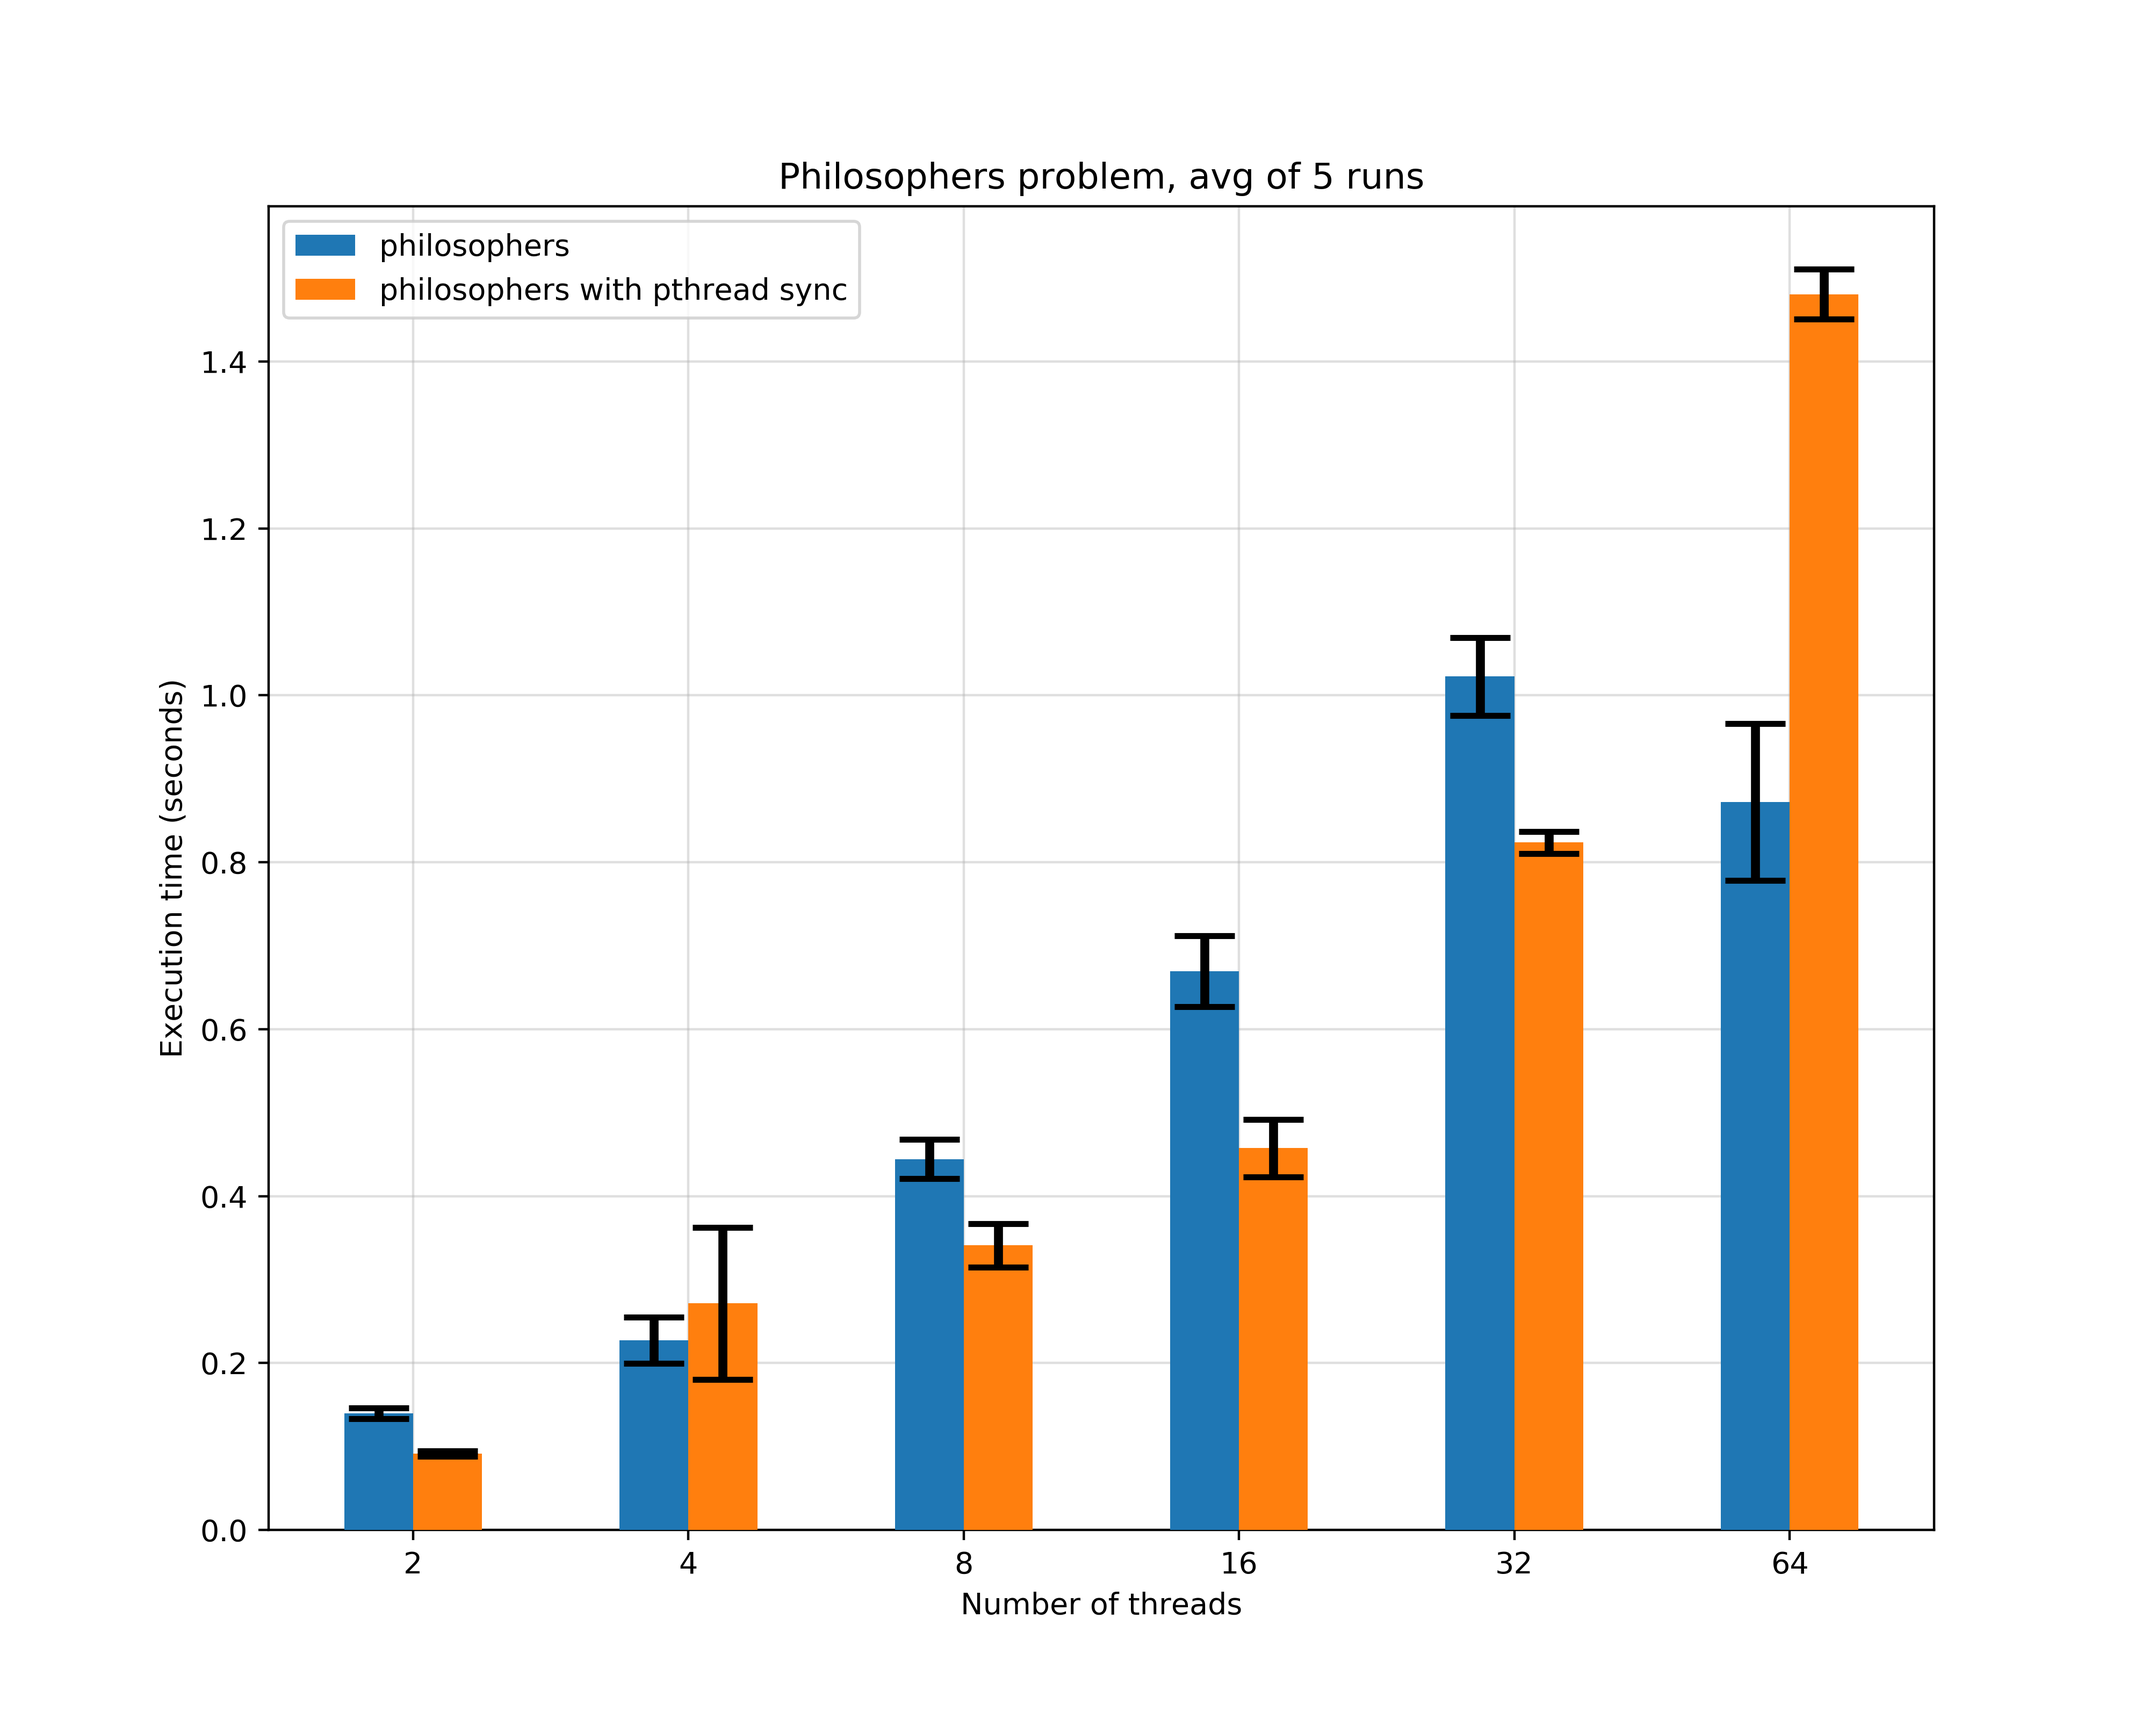
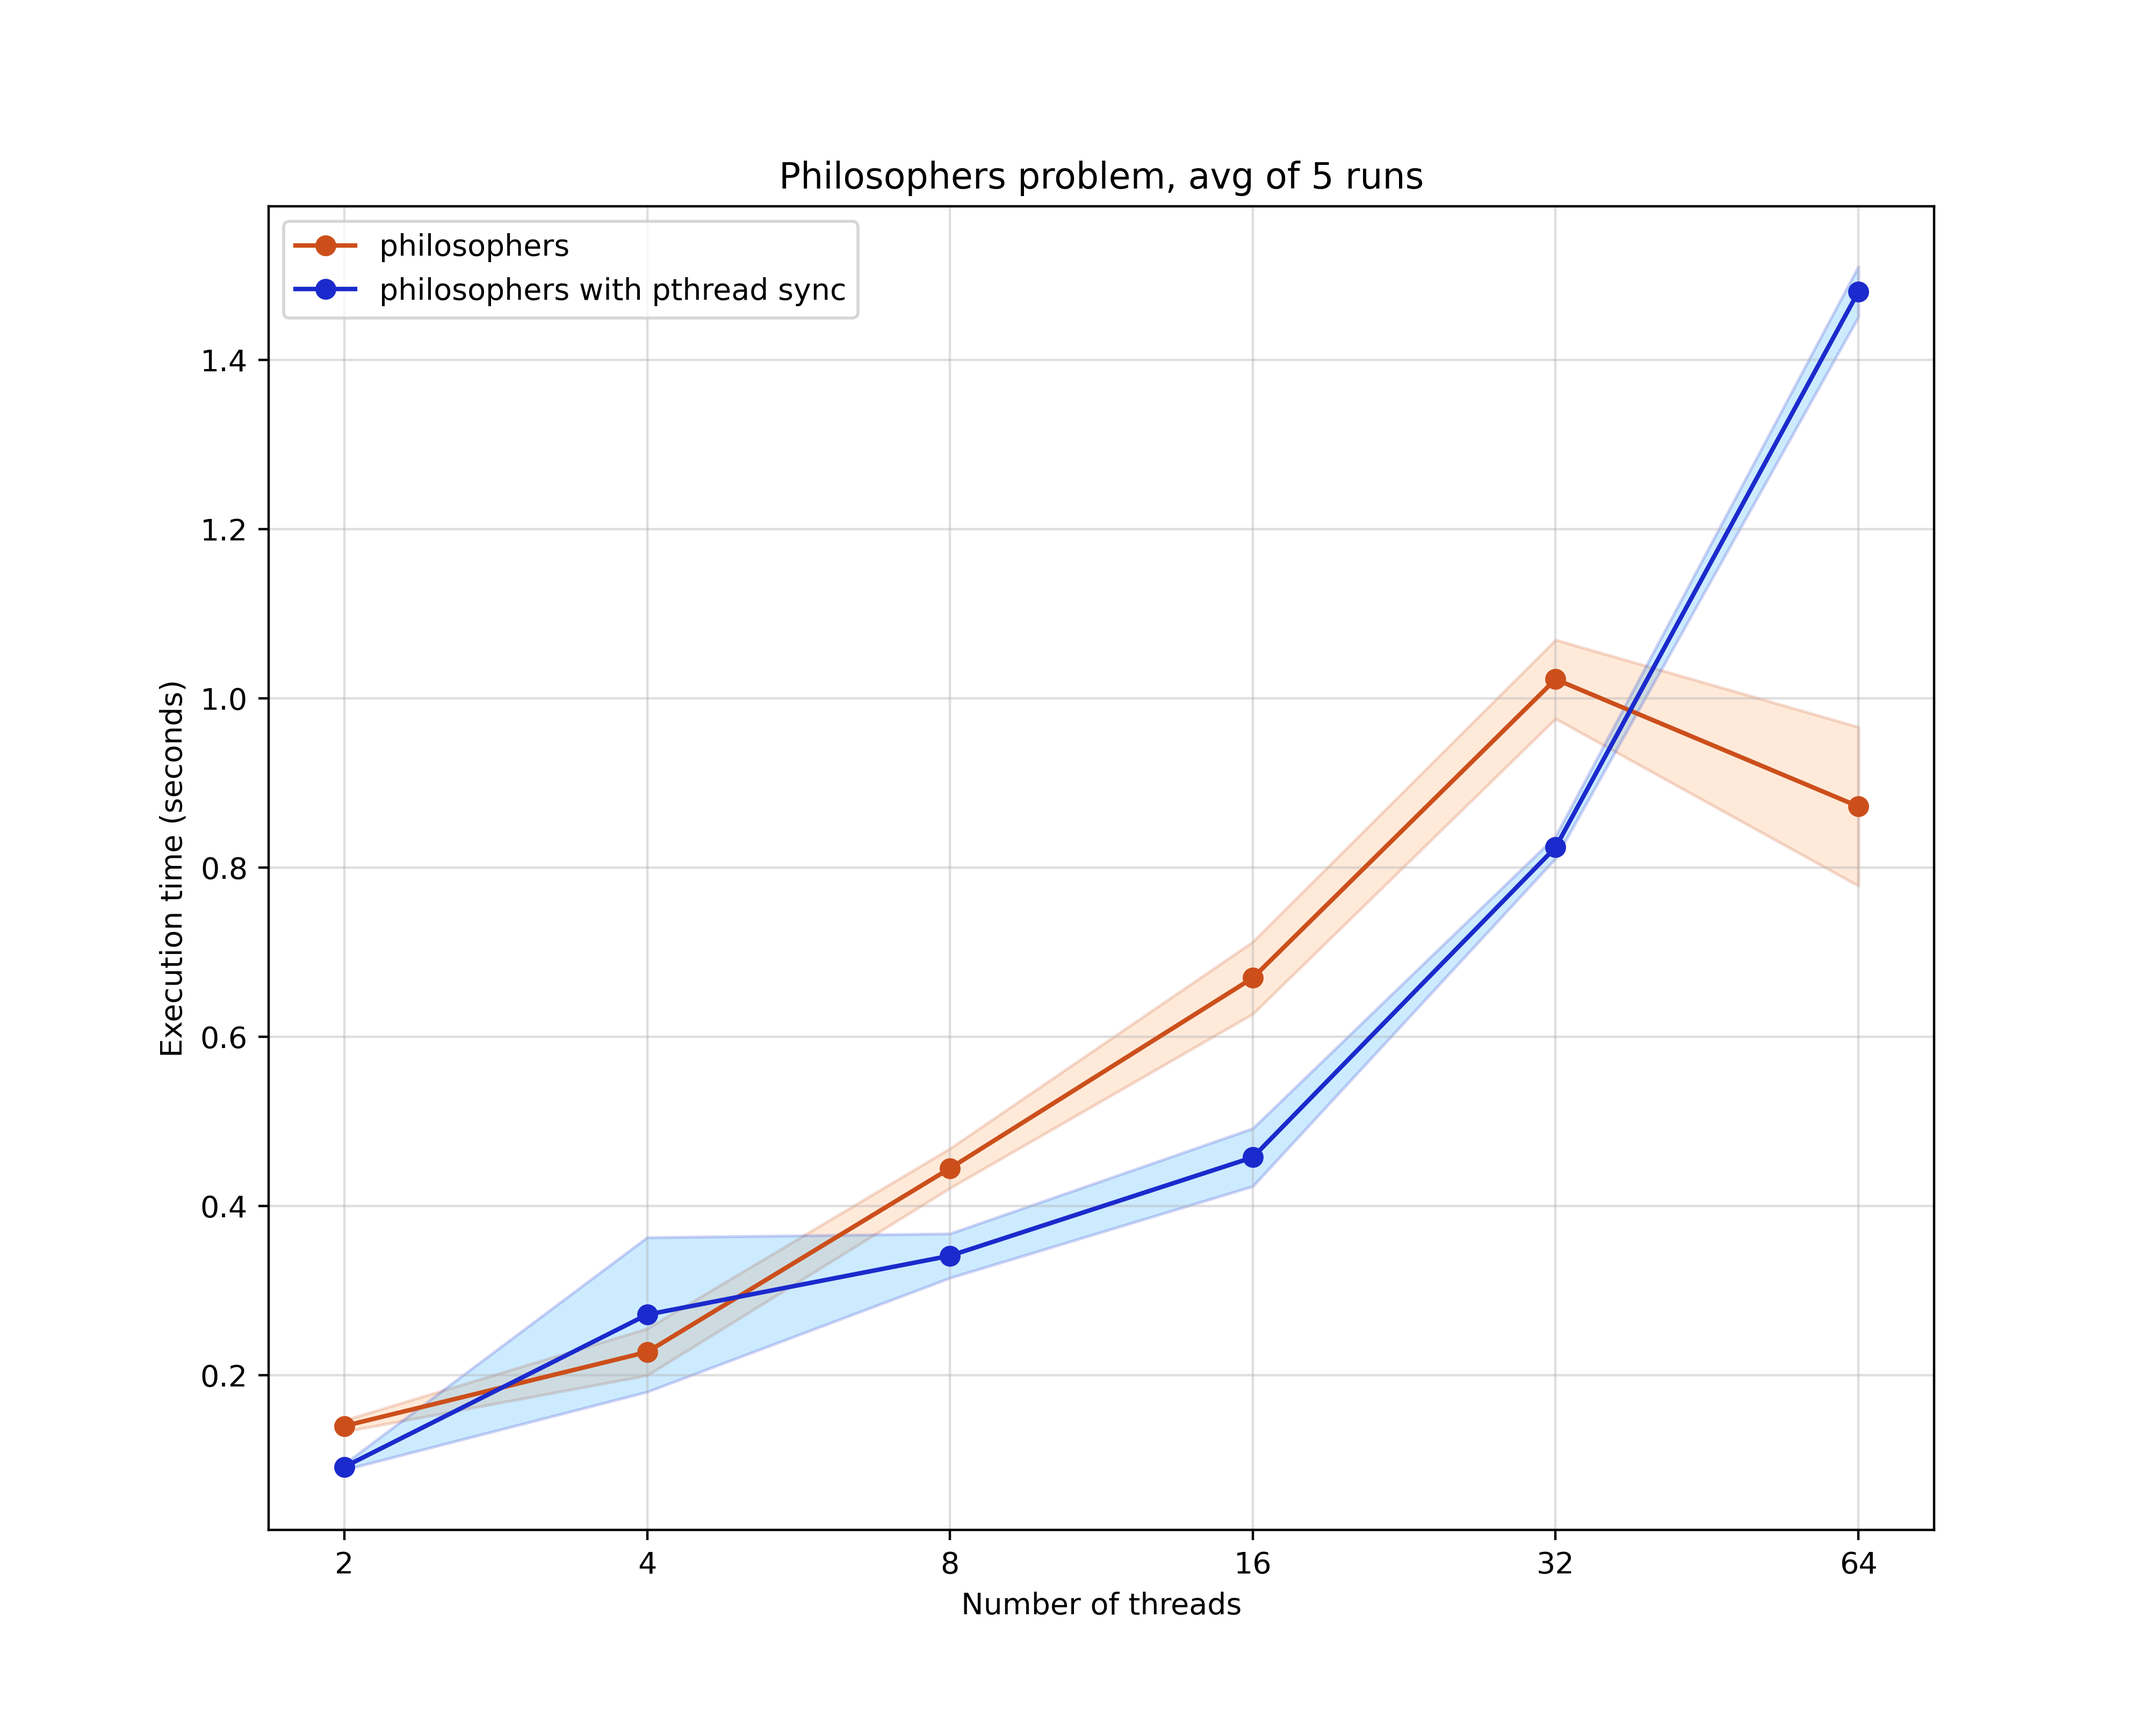
Made graphs look a little better

diff --git a/analysis.py b/analysis.py
@@ -12,6 +12,7 @@ file_path = "./data/"
 if USING_INGI_DATA:
     file_path += "ingi_server_data/"
 
+
 class CurrentProblem(Enum):
     PHILOSOPHERS = "philosophers"
     PHILOSOPHERS_pthread = "pthread_philosophers"
@@ -24,7 +25,6 @@ class CurrentProblem(Enum):
 
 
 def plot_file(new_problem, pthread_problem):
-
     threads = []
 
     y = []
@@ -32,11 +32,10 @@ def plot_file(new_problem, pthread_problem):
 
     pthread_problem_y = []
     pthread_problem_y_err = []
-    
 
     extension = ""
     if USING_INGI_DATA:
-        extension+="_server"
+        extension += "_server"
     with open(f"{file_path}{new_problem}{extension}.csv") as file:
         reader = csv.reader(file, delimiter=",")
         for row in reader:
@@ -73,16 +72,11 @@ def plot_file(new_problem, pthread_problem):
 
     plt.figure(figsize=(width, height))
 
-    plt.bar(X_axis - bar_width / 2, y, bar_width, zorder=3, label=new_problem)
-    plt.errorbar(X_axis - bar_width / 2, y, y_err, zorder=4, fmt="none", color="k", errorevery=1, capsize=10, lw=3,
-                 capthick=2)
+    plt.plot(X_axis, y, 'o-', label=new_problem, color='#CC4F1B')
+    plt.fill_between(X_axis, np.subtract(y, y_err), np.add(y, y_err), alpha=0.2, edgecolor='#CC4F1B', facecolor='#FF9848')
 
-    plt.bar(X_axis + bar_width / 2, pthread_problem_y, bar_width, zorder=3, label=pthread_problem.replace("pthread_",
-                                                                                                          "") + " with pthread sync" if new_problem != CurrentProblem.TEST_AND_SET_LOCK.value else pthread_problem.replace(
-        "pthread_", ""))
-    plt.errorbar(X_axis + bar_width / 2, pthread_problem_y, pthread_problem_y_err, zorder=4, fmt="none", color="k",
-                 errorevery=1, capsize=10, capthick=2, lw=3)
-
+    plt.plot(X_axis, pthread_problem_y, 'o-', color='#1B2ACC', label=pthread_problem.replace("pthread_", "") + " with pthread sync" if new_problem != CurrentProblem.TEST_AND_SET_LOCK.value else pthread_problem.replace("pthread_", ""))
+    plt.fill_between(X_axis, np.subtract(pthread_problem_y, pthread_problem_y_err), np.add(pthread_problem_y, pthread_problem_y_err), alpha=0.2, edgecolor='#1B2ACC', facecolor='#089FFF')
     name = new_problem.replace("_", " ")
     if new_problem == CurrentProblem.TEST_AND_SET_LOCK.value:
         name = new_problem.replace("_", " ") + " & test and test and and set"
